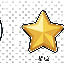
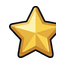
feat(assets): 补完 7 个 HUD 图标，P0 静态 108/108 收尾
- 血量、波次、击杀、暂停、星级、扫荡、广告奖励由 image/八个ui图标.png 棋盘格母图逐格切出
- assets:prepare 增加 --keep-largest：只丢小于最大块 1% 的碎块，清掉相邻格子残片又不误伤火花与小星
- 格子裁剪留 10px 内缩；暂停按钮环最宽，改用整格宽度避免切边
- 总纲升至 v2.17，四份文档同步 108/108，剩余工作转为真实棋盘与 UI 截图验收

diff --git a/docs/待办清单-素材与上线.md b/docs/待办清单-素材与上线.md
@@ -6,7 +6,7 @@
 
 > 生成日期：2026-07-09
 > 最近修订：2026-10-26
-> 当前状态：玩法与 UI 功能基本完成；P0 已处理并接入 101/108，剩余 7 张（全部是 UI 图标）；14 个英雄 1 阶、14 张英雄碎片、20 张小兵、10 个普通敌人、9 个精英敌人、9 个 BOSS、5 个道具、12 个法宝和唐僧已完成本地处理与接入，9 个 BOSS 待真实棋盘或 UI 截图验收；真机验证尚未开始
+> 当前状态：玩法与 UI 功能基本完成；P0 已处理并接入 108/108，静态素材全部完成；14 个英雄 1 阶、14 张英雄碎片、20 张小兵、10 个普通敌人、9 个精英敌人、9 个 BOSS、5 个道具、12 个法宝和唐僧已完成本地处理与接入，9 个 BOSS 待真实棋盘或 UI 截图验收；真机验证尚未开始
 > 使用方式：按 P0、第二批两个批次执行，做完一项改 `[ ]` 为 `[x]`
 
 ---
@@ -50,12 +50,12 @@
 - [x] `仙桃.png`：64×64，绿幕版叶子保留，透明边缘无亮绿色残留
 - [x] `战斗背景_森林.png`：750×1334，经确认保留小面积环境题字
 - [x] `art-source/references/风格板.png`：早期流程留档；含已替换素材，不再作为后续生图参考
-- [ ] 其余 7 个 P0 运行时静态资源（均为 UI 图标）
-- [x] 除上述 101 张已处理并接入素材外，其余 7 张旧 P0 PNG 仍只作为开发期占位，不参与验收；`青狮.png`、`白象.png` 2 张无代码引用的非 P0 旧图已删除（2026-10-26）
+- [x] 其余 7 个 P0 UI 图标（血量、波次、击杀、暂停、星级、扫荡、广告奖励）
+- [x] 108 张 P0 素材已全部处理并接入，不再有旧占位；`青狮.png`、`白象.png` 2 张无代码引用的非 P0 旧图已删除（2026-10-26）
 
 ### 现有资产盘点
 
-`public/assets/` 当前有 108 张运行时 PNG：其中 101 张已处理并接入、7 张仍是旧版 P0 占位。旧文件只用于避免现有游戏失去降级资源，不代表可用美术，也不按代码引用情况删除。P0 目标是 108 张：
+`public/assets/` 当前有 108 张运行时 PNG：108 张已全部处理并接入。P0 目标是 108 张：
 
 | 类别 | 现有数量 | 处理结论 |
 | --- | ---: | --- |
@@ -66,13 +66,13 @@
 | 敌人 | 28 | 28 张 P0 已全部处理并接入，其中 9 个 BOSS 待截图验收 |
 | 道具 | 5 | 5 张已全部处理并接入 |
 | 法宝 | 12 | 12 张已全部处理并接入 |
-| UI、背景、锁格 | 14 | 7 张已完成（`仙桃`、`战斗背景_森林`、`灵蕴`、`五行山-符印封石`、`阵营_师徒`、`阵营_仙佛`、`阵营_妖王`），继续补 7 张 |
+| UI、背景、锁格 | 14 | 14 张全部完成（图标 11 + 锁格 1 + 背景 2） |
 
 > 文件“已经存在”不等于素材“已经完成”。除用户确认的 20 张小兵、10 个普通敌人和当前唐僧图外，旧图不得作为 Gemini 参考，也不得混入 v2 风格板；这些例外素材同样不作为后续新图的画风参考。P0 只验收中立静态图、透明通道、尺寸、脚点和棋盘合成；左右方向必须在第二批成对验收。
 
 ### 核心缺口
 
-- [ ] 其余 7 张 P0 静态图生成并验收
+- [x] 其余 7 张 P0 UI 图标生成并验收
 - [ ] 全部 UI 界面视觉重制，包括面板、按钮、图标、背景、状态和排版 — **0 个界面最终验收**
 - [ ] `VisualPainter.ts`、`BattleUiPrimitives.ts` 等程序化占位视觉替换为最终资源
 - [ ] 【第二批】全部角色左右向静态定稿图；每个角色必须成对交付 `stand_right` + `stand_left`
@@ -157,9 +157,9 @@
 | 道具图标 | 5 张全部生成、处理并接入 | 5 张 | [x] 5/5 |
 | 法宝图标 | 12 张全部按原著原型生成、处理并接入 | 12 张 | [x] 12/12 |
 | UI、背景、锁格 | 12 个 UI 图标 + 森林战斗背景 + 五行山锁格；仙桃和森林背景已完成 | 14 张 | [x] 2/14 |
-| **合计** | P0 运行时静态资源 | **108 张** | [x] 101/108 已处理 |
+| **合计** | P0 运行时静态资源 | **108 张** | [x] 108/108 已处理 |
 
-> P0 每张只做中立静态图，不带方向。`stand_right`、`stand_left` 从第二批开始成对交付。`101/108` 表示已处理并接入；9 个 BOSS 仍需真实棋盘或 UI 截图验收。
+> P0 每张只做中立静态图，不带方向。`stand_right`、`stand_left` 从第二批开始成对交付。`108/108` 表示已处理并接入；9 个 BOSS 仍需真实棋盘或 UI 截图验收。
 
 ### 2.3 P0 UI、背景、锁格与旧图隔离
 

diff --git a/docs/P0-剩余27张提示词-可直接粘贴.md b/docs/P0-剩余27张提示词-可直接粘贴.md
@@ -2,7 +2,7 @@
 
 > 生成日期：2026-10-26
 > 范围：P0 未完成的 27 张（道具 4 + 法宝 11 + UI 与锁格 12）
-> **进度（2026-10-27）**：道具 4 张、法宝 11 张、灵蕴、五行山锁格、阵营 3 张均已完成，剩余 7 张（血量、波次、击杀、暂停、星级、扫荡、广告奖励）。
+> **进度（2026-10-27）**：本文件涉及的 27 张已全部完成，P0 静态 108/108 收尾。文件转留档，后续新需求另起文档。
 > 规则来源：[素材生产总纲.md](./素材生产总纲.md) §8、§9 与 [Gemini-P0单资产提示词包.md](./Gemini-P0单资产提示词包.md) §1、§2
 > 本文件是把固定块和单次 brief 拼好的成品，逐张复制，不要再自己改写风格描述。
 
@@ -20,7 +20,7 @@
    pnpm assets:prepare -- "D:\下载\原图.png" --type <类型> --name "<文件名>" --force
    ```
    `--type` 取值：道具 `item`、法宝 `artifact`、UI 图标 `ui`、锁格 `lock`。
-4. **每落地一张就更新台账**的 `101/108`，不要攒完再一次性验收。
+4. **每落地一张就更新台账**的 `108/108`，不要攒完再一次性验收。
 5. 提示词里的色键已按主体颜色选好。如果出图后主体和背景难分辨，把那一句换成另一个色键（绿色 ⇄ 洋红色）再生成。
 
 ## 一、道具（4 张，128×128，`--type item`）

diff --git a/docs/Gemini-P0单资产提示词包.md b/docs/Gemini-P0单资产提示词包.md
@@ -365,7 +365,7 @@ UI 图标统一用第 2.3 节模板；背景和锁格使用各自的专属模板
 
 历史 brief：Q 版青年僧人，面容清秀，白色内袍、红金锦斓袈裟、五佛冠、僧鞋；右手竖持一根九环锡杖，左手结印。当前游戏已采用现有唐僧图，本 brief 不再执行。
 
-以上分组合计 **108 个运行时文件**。当前已处理并接入 **101/108**，剩余 7 张（全部是 UI 图标）：其中 20 张小兵和 10 个普通敌人来自旧风格素材处理，属于用户确认例外，不计作 v2 新生成素材。
+以上分组合计 **108 个运行时文件**。当前 **108/108** 全部处理并接入，P0 静态完成：其中 20 张小兵和 10 个普通敌人来自旧风格素材处理，属于用户确认例外，不计作 v2 新生成素材。
 
 ## 5. P0 生成顺序
 
@@ -376,7 +376,7 @@ UI 图标统一用第 2.3 节模板；背景和锁格使用各自的专属模板
 5. `[x]` 14 个英雄碎片已全部完成并接入 `HeroShard.ts`。
 6. `[x]` 9 个精英敌人已全部完成。
 7. `[x]` 生成 9 个 BOSS。
-8. `[ ]` 生成剩余 7 个 UI 图标。
+8. `[x]` 生成剩余 7 个 UI 图标，P0 静态全部完成。
 9. `[ ]` 全部通过后，统一接入并做真实棋盘截图验收。
 
 ## 6. 本地后处理和验收
